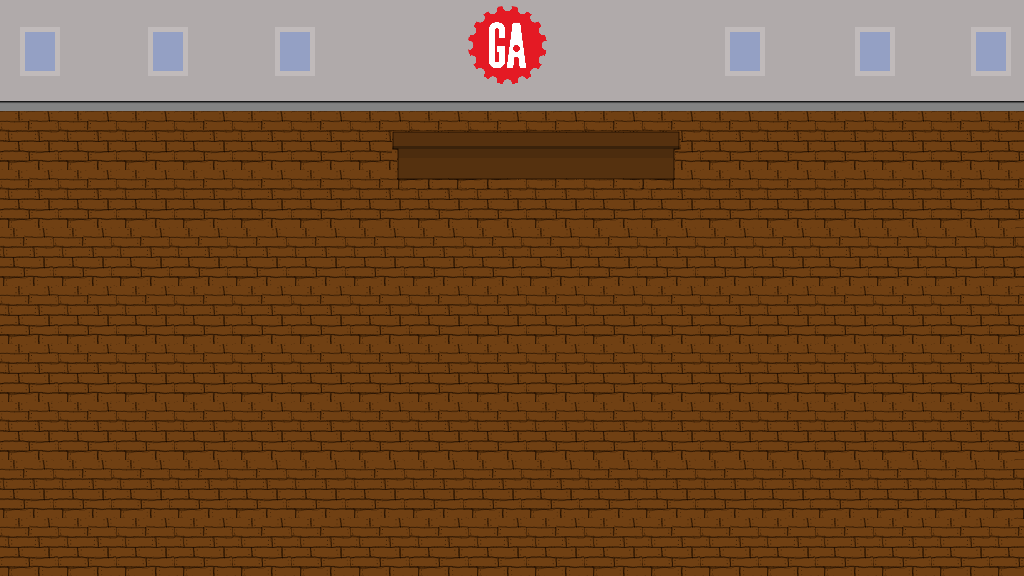
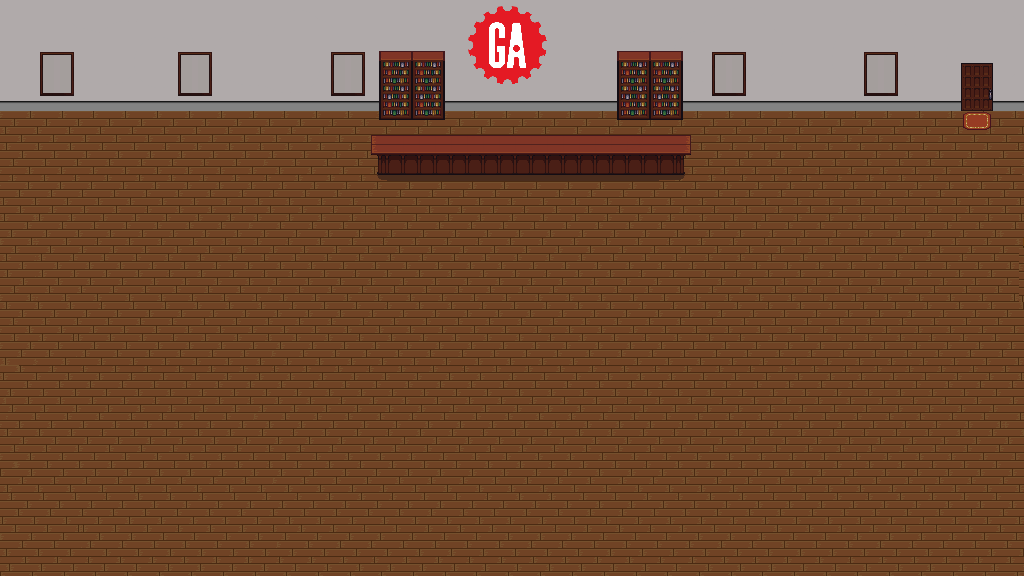
Add player sprites, new map

diff --git a/assets/scripts/app.js b/assets/scripts/app.js
@@ -13,19 +13,15 @@ const authEvents = require('./auth/events')
 const charEvents = require('./character/events')
 const messageEvents = require('./message/events')
 
-const SCALE = 1
-const WIDTH = 60
-const HEIGHT = 60
-const SCALED_WIDTH = SCALE * WIDTH
-const SCALED_HEIGHT = SCALE * HEIGHT
-const CYCLE_LOOP = [0, 1, 0, 2]
-const OTHER_CYCLE_LOOP = [0, 1, 0, 2]
-const FACING_DOWN = 0
-const FACING_UP = 1
-const FACING_LEFT = 2
-const FACING_RIGHT = 3
-const FRAME_LIMIT = 12
-const MOVEMENT_SPEED = 1.75
+const playerSize = 64
+const frameLoop = [0, 1, 2, 3, 4, 5, 6, 7, 8]
+const onlineFrameLoop = [0, 1, 0, 2]
+const faceSouth = 10
+const faceNorth = 8
+const faceWest = 9
+const faceRight = 11
+const frameLimit = 7
+const playerSpeed = 1.75
 
 const characterSprites = ['https://i.imgur.com/UXlqiz6.png', 'https://i.imgur.com/NFU0D5v.png', 'https://i.imgur.com/cQf38Yp.png']
 
@@ -36,7 +32,7 @@ let keyPresses = {}
 let validKeys = ['w', 'a', 's', 'd', 'Enter']
 window.charCreated = false
 
-window.currentDirection = [FACING_DOWN, 'FACING_DOWN']
+window.currentDirection = [faceSouth, 'faceSouth']
 let currentLoopIndex = 0
 let otherCurrentLoopIndex = [0, 0, 0, 0, 0, 0, 0, 0, 0, 0, 0, 0, 0, 0, 0, 0, 0, 0, 0, 0, 0, 0, 0, 0, 0, 0, 0, 0, 0, 0, 0]
 let frameCount = 0
@@ -49,6 +45,9 @@ window.keyPressError = true
 let img = new Image()
 let img2 = new Image()
 let img3 = new Image()
+let img4 = new Image()
+let img5 = new Image()
+let img6 = new Image()
 
 store.userCharacter = {}
 store.userCharacter.character = 0
@@ -62,26 +61,33 @@ let speech = new Image()
 let speech2 = new Image()
 let speech3 = new Image()
 let error = new Image()
+let transparent =  new Image()
 
 let otherUser
 
 const directionMethod = function (charDirect) {
-  if (charDirect === 'FACING_UP') {
-    otherUser = FACING_UP
-  } else if (charDirect === 'FACING_DOWN') {
-    otherUser = FACING_DOWN
-  } else if (charDirect === 'FACING_RIGHT') {
-    otherUser = FACING_RIGHT
+  if (charDirect === 'faceNorth') {
+    otherUser = faceNorth
+  } else if (charDirect === 'faceSouth') {
+    otherUser = faceSouth
+  } else if (charDirect === 'faceRight') {
+    otherUser = faceRight
   } else {
-    otherUser = FACING_LEFT
+    otherUser = faceWest
   }
   return otherUser
 }
 let value
 const imgWhich = function (num) {
-  if (num === '3') {
+  if (num === '6') {
+    value = img6
+  } else if (num === '5') {
+    value = img5
+  } else if (num === '4') {
+    value = img4
+  } else if (num === '3') {
     value = img3
-  } else if (num === '2') {
+  } else if (num === '1') {
     value = img2
   } else {
     value = img
@@ -102,6 +108,7 @@ function keyDownListener (event) {
 
 window.addEventListener('click', mouseOverListener)
 function mouseOverListener (event) {
+  console.log(event)
   if (event.target.localName === 'input') {
     store.cantPress = true
   } else {
@@ -115,18 +122,33 @@ function keyUpListener (event) {
 }
 
 function loadImage () {
-  img.src = 'https://i.imgur.com/UXlqiz6.png'
+  img.src = 'https://i.imgur.com/WRR1pK6.png'
   img.onload = function () {
     window.requestAnimationFrame(gameLoop)
   }
 
-  img2.src = 'https://i.imgur.com/NFU0D5v.png'
+  img2.src = 'https://i.imgur.com/LLnnye4.png'
   img2.onload = function () {
     window.requestAnimationFrame(gameLoop)
   }
 
-  img3.src = 'https://i.imgur.com/cQf38Yp.png'
+  img3.src = 'https://i.imgur.com/kGzATwp.png'
   img3.onload = function () {
+    window.requestAnimationFrame(gameLoop)
+  }
+
+  img4.src = 'https://i.imgur.com/GR88Vnw.png'
+  img4.onload = function () {
+    window.requestAnimationFrame(gameLoop)
+  }
+
+  img5.src = 'https://i.imgur.com/kWnpSoi.png'
+  img5.onload = function () {
+    window.requestAnimationFrame(gameLoop)
+  }
+
+  img6.src = 'https://i.imgur.com/UQcPC8d.png'
+  img6.onload = function () {
     window.requestAnimationFrame(gameLoop)
   }
   speech.src = 'https://i.imgur.com/wa090e7.png'
@@ -145,22 +167,29 @@ function loadImage () {
   error.onload = function () {
     window.requestAnimationFrame(gameLoop)
   }
+  transparent.src = 'https://i.imgur.com/82J5YRe.png'
+  transparent.onload = function () {
+    window.requestAnimationFrame(gameLoop)
+  }
 }
 
 const showMessageOnRender = function () {
   for (let i = 0; i < store.allMessages.messages.length; i++) {
-    if (store.allMessages.messages[i].user_id === window.id &&
+    if (store.allMessages.messages[i].user_id === store.user.id &&
       moment(store.allMessages.messages[i].created_at).add(10, 'seconds').format() >=
       (moment().format())) {
       if (store.allMessages.messages[i].text.length > 20) {
-        ctx.drawImage(speech, window.positionX - 80, window.positionY - 50)
-        ctx.fillText(store.allMessages.messages[i].text, window.positionX - (store.allMessages.messages[i].text.length * 2.45), window.positionY - 31)
+        // console.log('hey the length of this string is: ', store.allMessages.messages[i].text.length)
+        ctx.drawImage(speech, window.positionX - (speech.width / 2) + 32, window.positionY - 50)
+        ctx.fillText(store.allMessages.messages[i].text, window.positionX - (store.allMessages.messages[i].text.length * 15 / 4) + 32, window.positionY - 31)
       } else if (store.allMessages.messages[i].text.length > 10) {
-        ctx.drawImage(speech2, window.positionX - 55, window.positionY - 50)
-        ctx.fillText(store.allMessages.messages[i].text, window.positionX - (store.allMessages.messages[i].text.length * 2.45), window.positionY - 30)
+        // console.log('hey the length of this string is: ', store.allMessages.messages[i].text.length)
+        ctx.drawImage(speech2, window.positionX - (speech2.width / 2) + 32, window.positionY - 50)
+        ctx.fillText(store.allMessages.messages[i].text, window.positionX - (store.allMessages.messages[i].text.length * 15 / 4) + 32, window.positionY - 30)
       } else if (store.allMessages.messages[i].text.length > 0) {
-        ctx.drawImage(speech3, window.positionX - 25, window.positionY - 50)
-        ctx.fillText(store.allMessages.messages[i].text, window.positionX - (store.allMessages.messages[i].text.length * 2.45), window.positionY - 30)
+        // console.log('hey the length of this string is: ', store.allMessages.messages[i].text.length)
+        ctx.drawImage(speech3, window.positionX - (speech3.width / 2) + 32, window.positionY - 50)
+        ctx.fillText(store.allMessages.messages[i].text, window.positionX - (store.allMessages.messages[i].text.length * 15 / 4) + 32, window.positionY - 30)
       } else {
         ctx.fillText(' ', window.positionX + 21.5, window.positionY - 20)
       }
@@ -170,8 +199,8 @@ const showMessageOnRender = function () {
 
 function drawFrame (num, frameX, frameY, canvasX, canvasY) {
   ctx.drawImage(imgWhich(num),
-    frameX * WIDTH, frameY * HEIGHT, WIDTH, HEIGHT,
-    canvasX, canvasY, SCALED_WIDTH, SCALED_HEIGHT)
+    frameX * playerSize, frameY * playerSize, playerSize, playerSize,
+    canvasX, canvasY, playerSize * 0.95, playerSize * 0.95)
 }
 
 loadImage()
@@ -182,31 +211,31 @@ function gameLoop () {
   window.hasMoved = false
 
   if (keyPresses.w) {
-    moveCharacter(0, -MOVEMENT_SPEED, FACING_UP, 'FACING_UP')
+    moveCharacter(0, -playerSpeed, faceNorth, 'faceNorth')
     window.hasMoved = true
   } else if (keyPresses.s) {
-    moveCharacter(0, MOVEMENT_SPEED, FACING_DOWN, 'FACING_DOWN')
+    moveCharacter(0, playerSpeed, faceSouth, 'faceSouth')
     window.hasMoved = true
   }
 
   if (keyPresses.a) {
-    moveCharacter(-MOVEMENT_SPEED, 0, FACING_LEFT, 'FACING_LEFT')
+    moveCharacter(-playerSpeed, 0, faceWest, 'faceWest')
     window.hasMoved = true
   } else if (keyPresses.d) {
-    moveCharacter(MOVEMENT_SPEED, 0, FACING_RIGHT, 'FACING_RIGHT')
+    moveCharacter(playerSpeed, 0, faceRight, 'faceRight')
     window.hasMoved = true
   }
 
   if (keyPresses.Enter) {
-
+    console.log('oh heyyyyyyyy')
   }
 
   if (window.hasMoved) {
     frameCount++
-    if (frameCount >= FRAME_LIMIT) {
+    if (frameCount >= frameLimit) {
       frameCount = 0
       currentLoopIndex++
-      if (currentLoopIndex >= CYCLE_LOOP.length) {
+      if (currentLoopIndex >= frameLoop.length) {
         currentLoopIndex = 0
       }
     }
@@ -225,15 +254,15 @@ function gameLoop () {
             moment(store.allMessages.messages[i].created_at).add(10, 'seconds').format() >=
             (moment().format())) {
             if (store.allMessages.messages[i].text.length > 20) {
-              ctx.drawImage(speech, store.otherCharacters.characters[key].x - 80, store.otherCharacters.characters[key].y - 50)
+              ctx.drawImage(speech, store.otherCharacters.characters[key].x - (speech.width / 2), store.otherCharacters.characters[key].y - 50)
               // ctx.fillText(store.allMessages.messages[i].text, window.positionX - (store.allMessages.messages[i].text.length * 2.45), window.positionY - 31)
-              ctx.fillText(store.allMessages.messages[i].text, store.otherCharacters.characters[key].x - (store.allMessages.messages[i].text.length * 2.45), store.otherCharacters.characters[key].y - 31)
+              ctx.fillText(store.allMessages.messages[i].text, store.otherCharacters.characters[key].x - (store.allMessages.messages[i].text.length * 15 / 2), store.otherCharacters.characters[key].y - 31)
             } else if (store.allMessages.messages[i].text.length > 10) {
-              ctx.drawImage(speech2, store.otherCharacters.characters[key].x - 55, store.otherCharacters.characters[key].y - 50)
-              ctx.fillText(store.allMessages.messages[i].text, store.otherCharacters.characters[key].x - (store.allMessages.messages[i].text.length * 2.45), store.otherCharacters.characters[key].y - 31)
+              ctx.drawImage(speech2, store.otherCharacters.characters[key].x - (speech2.width / 2), store.otherCharacters.characters[key].y - 50)
+              ctx.fillText(store.allMessages.messages[i].text, store.otherCharacters.characters[key].x - (store.allMessages.messages[i].text.length * 15 / 2), store.otherCharacters.characters[key].y - 31)
             } else if (store.allMessages.messages[i].text.length > 0) {
-              ctx.drawImage(speech3, store.otherCharacters.characters[key].x - 25, store.otherCharacters.characters[key].y - 50)
-              ctx.fillText(store.allMessages.messages[i].text, store.otherCharacters.characters[key].x - (store.allMessages.messages[i].text.length * 2.45), store.otherCharacters.characters[key].y - 31)
+              ctx.drawImage(speech3, store.otherCharacters.characters[key].x - (speech3.width / 2), store.otherCharacters.characters[key].y - 50)
+              ctx.fillText(store.allMessages.messages[i].text, store.otherCharacters.characters[key].x - (store.allMessages.messages[i].text.length * 15 / 2), store.otherCharacters.characters[key].y - 31)
             } else {
               ctx.fillText(' ', store.otherCharacters.characters[key].x + 21.5, store.otherCharacters.characters[key].y - 20)
             //  ctx.fillText(store.allMessages.messages[i].text, store.otherCharacters.characters[key].x + 21.5, store.otherCharacters.characters[key].y - 20)
@@ -242,27 +271,28 @@ function gameLoop () {
         }
         if (store.otherCharacters.characters[key].moving === true) {
           otherFrameCount[key]++
-          if (otherFrameCount[key] >= FRAME_LIMIT) {
-            otherFrameCount[key] = 0
+          if (otherFrameCount[key] >= frameLimit) {
+            otherFrameCount[key] = 1
             otherCurrentLoopIndex[key]++
-            if (otherCurrentLoopIndex[key] >= OTHER_CYCLE_LOOP.length) {
+            if (otherCurrentLoopIndex[key] >= onlineFrameLoop.length) {
               otherCurrentLoopIndex[key] = 0
             }
           }
         }
         if (store.otherCharacters.characters[key].moving === true) {
-          ctx.fillText(store.otherCharacters.characters[key].user_name, store.otherCharacters.characters[key].x + (store.otherCharacters.characters[key].user_name.length * 1.75), store.otherCharacters.characters[key].y - 10)
-          drawFrame(store.otherCharacters.characters[key].spritesheet, OTHER_CYCLE_LOOP[otherCurrentLoopIndex[key]], directionMethod(store.otherCharacters.characters[key].direction), store.otherCharacters.characters[key].x, store.otherCharacters.characters[key].y)
+          ctx.fillText(store.otherCharacters.characters[key].user_name, store.otherCharacters.characters[key].x + (store.otherCharacters.characters[key].user_name.length / 2), store.otherCharacters.characters[key].y - 10)
+          drawFrame(store.otherCharacters.characters[key].spritesheet, onlineFrameLoop[otherCurrentLoopIndex[key]], directionMethod(store.otherCharacters.characters[key].direction), store.otherCharacters.characters[key].x, store.otherCharacters.characters[key].y)
         } else {
-          ctx.fillText(store.otherCharacters.characters[key].user_name, store.otherCharacters.characters[key].x + (store.otherCharacters.characters[key].user_name.length * 1.75), store.otherCharacters.characters[key].y - 10)
-          drawFrame(store.otherCharacters.characters[key].spritesheet, OTHER_CYCLE_LOOP[0], directionMethod(store.otherCharacters.characters[key].direction), store.otherCharacters.characters[key].x, store.otherCharacters.characters[key].y)
+          ctx.fillText(store.otherCharacters.characters[key].user_name, store.otherCharacters.characters[key].x + (store.otherCharacters.characters[key].user_name.length / 2), store.otherCharacters.characters[key].y - 10)
+          drawFrame(store.otherCharacters.characters[key].spritesheet, onlineFrameLoop[0], directionMethod(store.otherCharacters.characters[key].direction), store.otherCharacters.characters[key].x, store.otherCharacters.characters[key].y)
         }
       }
     }
     )
+    drawFrame(window.sprite, frameLoop[currentLoopIndex], window.currentDirection[0], window.positionX, window.positionY)
+    ctx.drawImage(transparent, 0, 0)
+    ctx.fillText(window.user_name, window.positionX - (window.user_name.length / 2), window.positionY - 10)
     showMessageOnRender()
-    ctx.fillText(window.user_name, window.positionX - (window.user_name.length * 1.75), window.positionY - 10)
-    drawFrame(window.sprite, CYCLE_LOOP[currentLoopIndex], window.currentDirection[0], window.positionX, window.positionY)
     window.requestAnimationFrame(gameLoop)
     if (window.keyPressError) {
       ctx.drawImage(error, canvas.width / 2 - error.width / 2, canvas.height - 100)
@@ -275,10 +305,10 @@ function gameLoop () {
 }
 
 function moveCharacter (deltaX, deltaY, direction, stringDirection) {
-  if (window.positionX + deltaX > 0 && window.positionX + SCALED_WIDTH + deltaX < canvas.width && ((window.positionX + deltaX <= 345 || window.positionY + deltaY >= 150) || (window.positionX + deltaX >= 665 || window.positionY + deltaY >= 150))) {
+  if (window.positionX + deltaX > -15 && window.positionX + deltaX < canvas.width - 48 && ((window.positionX + deltaX <= 325 || (window.positionY + deltaY >= 135 || window.positionY + deltaY <= 83)) || (window.positionX + deltaX >= 675 || window.positionY + deltaY >= 132))) {
     window.positionX += deltaX
   }
-  if (window.positionY + deltaY > 90 && window.positionY + SCALED_HEIGHT + deltaY < canvas.height && ((window.positionX + deltaX <= 345 || window.positionY + deltaY >= 150) || (window.positionX + deltaX >= 665 || window.positionY + deltaY >= 150))) {
+  if (window.positionY + deltaY > 64 && window.positionY + deltaY < canvas.height - 64 && ((window.positionX + deltaX <= 325 || (window.positionY + deltaY >= 135 || window.positionY + deltaY <= 83)) || (window.positionX + deltaX >= 675 || window.positionY + deltaY >= 132))) {
     window.positionY += deltaY
   }
   window.currentDirection[0] = direction

diff --git a/assets/scripts/character/api.js b/assets/scripts/character/api.js
@@ -26,7 +26,7 @@ const createCharacter = function (data) {
         'user_name': `${userNames.adj[Math.floor(Math.random() * userNames.adj.length)]}${userNames.noun[Math.floor(Math.random() * userNames.noun.length)]}`,
         'x': 250,
         'y': 200,
-        'spritesheet': (Math.floor(Math.random() * 3))
+        'spritesheet': (Math.floor(Math.random() * 6))
       }
     }
   })

diff --git a/assets/styles/index.scss b/assets/styles/index.scss
@@ -90,7 +90,7 @@ button:hover, .submit-button:hover {
 }
 
 canvas {
-  background-image: url('public/map2.png');
+  background-image: url('public/map.png');
   border: 1px solid black;
   display: block;
   margin: auto;
